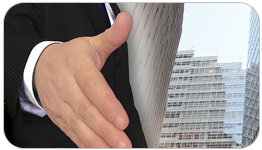
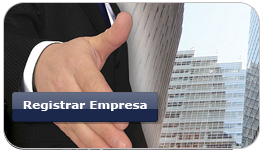
nuevas imagenes inicio sesión y registar empresa

diff --git a/css/style.css b/css/style.css
@@ -563,12 +563,15 @@ article{
 #websites article{
     background:none;
 
-    border-radius:5px;
-    color: black;
+
+    /*border-radius:0px;
+    color: black;*/
     /*
     font-size:15px;
     margin:5px;
-    padding:10px;
+    */
+    padding: 0 50px 0 0;
+    /*
     width:37%;*/
 }
 .pruebas{
